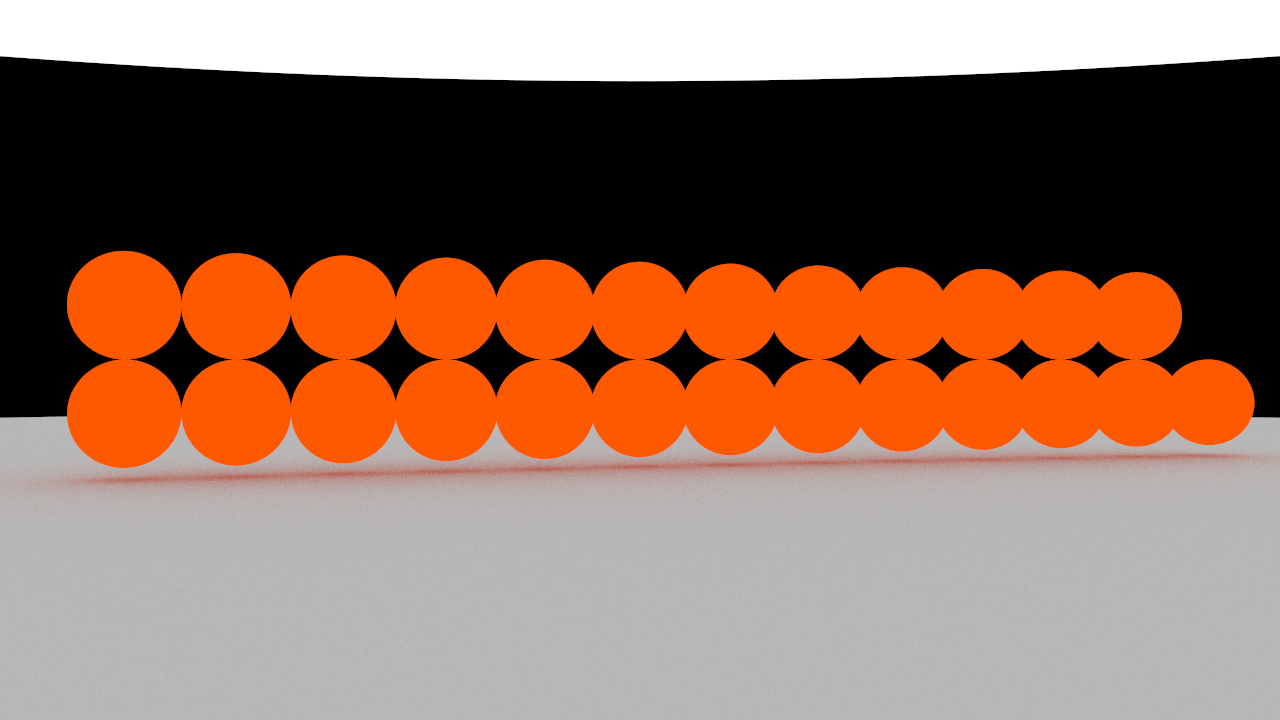
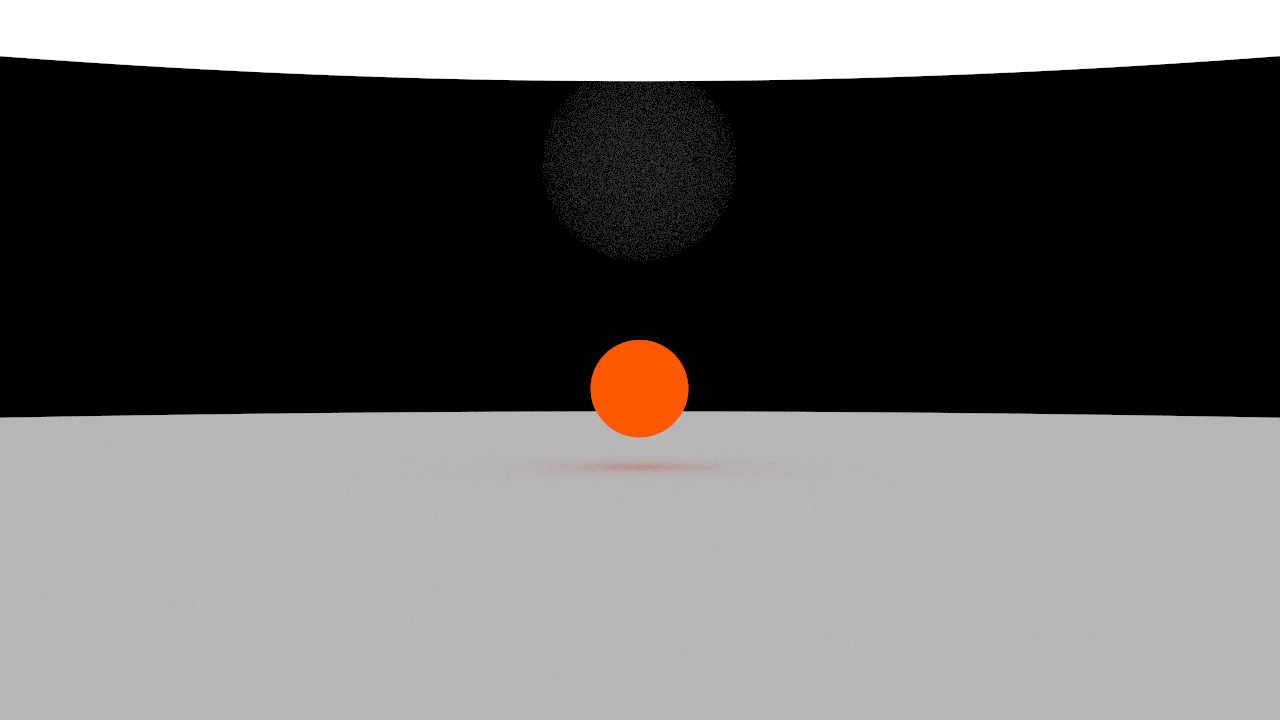
FInal Project - Dispersion

Changed region(s): [[0.0312, 0.0917, 1.0, 0.7028]]

diff --git a/test/test-bvh.cpp b/test/test-bvh.cpp
@@ -10,6 +10,7 @@
 #include "random.h"
 #include "parser.h"
 #include "bvh.h"
+#include "disperse.h"
 #include <iomanip>
 #include <cmath>
 #include <thread>
@@ -109,13 +110,25 @@ Color trace_path(const BVH& bvh, const Ray& ray, int depth) {
     auto [u, v] = object->uv(*hit);
     const Material* material = object->material;
     Color color = material->texture->value(u, v);
+
     if (material->emitting) {
         return color;
     }
+    // check if it is disperse
+    if (const Disperse* disperse = dynamic_cast<const Disperse*>(material)) {
+        Ray ray_r = disperse->scatter_dispersely(ray, *hit, 'r');
+        Ray ray_g = disperse->scatter_dispersely(ray, *hit, 'g');
+        Ray ray_b = disperse->scatter_dispersely(ray, *hit, 'b');
 
-    // more bounces!
-    Ray scattered = material->scatter(ray, hit.value());
-    return color * trace_path(bvh, scattered, depth-1);
+        double r = trace_path(bvh, ray_r, depth - 1).x;
+        double g = trace_path(bvh, ray_g, depth - 1).y;
+        double b = trace_path(bvh, ray_b, depth - 1).z;
+
+        return Color{r*2, g*2, b*2} * color;
+    } else {
+        Ray scattered = material->scatter(ray, *hit);
+        return color * trace_path(bvh, scattered, depth - 1);
+    }
 }
 
 

diff --git a/src/materials/disperse.cpp b/src/materials/disperse.cpp
@@ -1,15 +1,26 @@
-#include "glass.h"
+#include "disperse.h"
 #include "ray.h"
 #include "hit.h"
 #include "random.h"
-#include <algorithm>
 
-Glass::Glass(const Texture *texture, bool emitting)
-    :Material{texture, emitting} {}
+Disperse::Disperse(const Texture *texture, bool emitting)
+    : Material{texture, emitting} {}
 
-Ray Glass::scatter(const Ray& ray, const Hit& hit) const {
-    double n1 = 1.0;
-    double n2 = 1.5;
+
+Ray Disperse::scatter(const Ray &ray, const Hit &hit) const { }
+
+Ray Disperse::scatter_dispersely(const Ray &ray, const Hit &hit, char channel) const {
+    double n1 = 1.0; // ior of air
+    double n2;
+    if (channel == 'r') {
+        n2 = ior_r;
+    }
+    else if (channel == 'g') {
+        n2 = ior_g;
+    }
+    else {
+        n2 = ior_b;
+    }
 
     Vector3D normal = hit.normal;
     if (dot(ray.direction, hit.normal) > 0) {
@@ -26,6 +37,7 @@ Ray Glass::scatter(const Ray& ray, const Hit& hit) const {
     }
     else {
         Vector3D refracted = refract(ray.direction, normal, n1/n2);
+        refracted += random_unit_vector() * 0.01;
         return Ray{hit.position, refracted};
     }
 

diff --git a/src/textures/marble.cpp b/src/textures/marble.cpp
@@ -19,9 +19,17 @@ Color Marble::value(double u, double v) const {
     double x = std::sin(theta) * std::cos(phi);
     double y = std::sin(theta) * std::sin(phi);
     double z = std::cos(theta);
-    x *= 5;
-    y *= 5;
-    z *= 5;
-    double noise = Perlin::noise(x, y, z);
-    return Color{0.5, 0.5, 0.5} * (noise + 1);
+
+    x*=5;
+    y*=5;
+    z*=5;
+
+    Color color{0.5, 0.5, 0.5};
+    double noise = Perlin::turbulence(x, y, z, 5);
+    // domain warping
+    //color += 0.5*(noise+1) * Color{0, 0.2, 0.6};
+    noise = Perlin::turbulence(x + noise, y + noise, z + noise, 5);
+    noise = Perlin::turbulence(x + noise, y + noise, z + noise, 5);
+    return color* (noise + 1);
+
 }

diff --git a/src/parser.cpp b/src/parser.cpp
@@ -19,6 +19,7 @@
 #include "isotropic.h"
 #include "constant_medium.h"
 #include "marble.h"
+#include "disperse.h"
 #include <algorithm>
 #include <iostream>
 #include <fstream>
@@ -157,6 +158,9 @@ void Parser::parse_material(std::stringstream& ss) {
     }
     else if (kind == "specular") {
         materials[name] = std::make_unique<Specular>(texture, emitting);
+    }
+    else if (kind == "disperse") {
+        materials[name] = std::make_unique<Disperse>(texture, emitting);
     }
     else if (kind == "metallic") {
         double fuzz;

diff --git a/src/materials/disperse.h b/src/materials/disperse.h
@@ -1,0 +1,14 @@
+#pragma once
+#include "material.h"
+
+class Disperse : public Material {
+public:
+    Disperse(const Texture *texture, bool emitting);
+
+    Ray scatter(const Ray& ray, const Hit& hit) const override;
+    Ray scatter_dispersely(const Ray& ray, const Hit& hit, char channel) const;
+
+    const double ior_r = 1.50;
+    const double ior_g = 1.52;
+    const double ior_b = 1.55;
+};

diff --git a/src/core/noise.h b/src/core/noise.h
@@ -2,5 +2,5 @@
 
 namespace Perlin {
     double noise(double x, double y, double z);
-    double turbulence(double x, double y, double z, double depth);
+    double turbulence(double x, double y, double z, int depth);
 }
